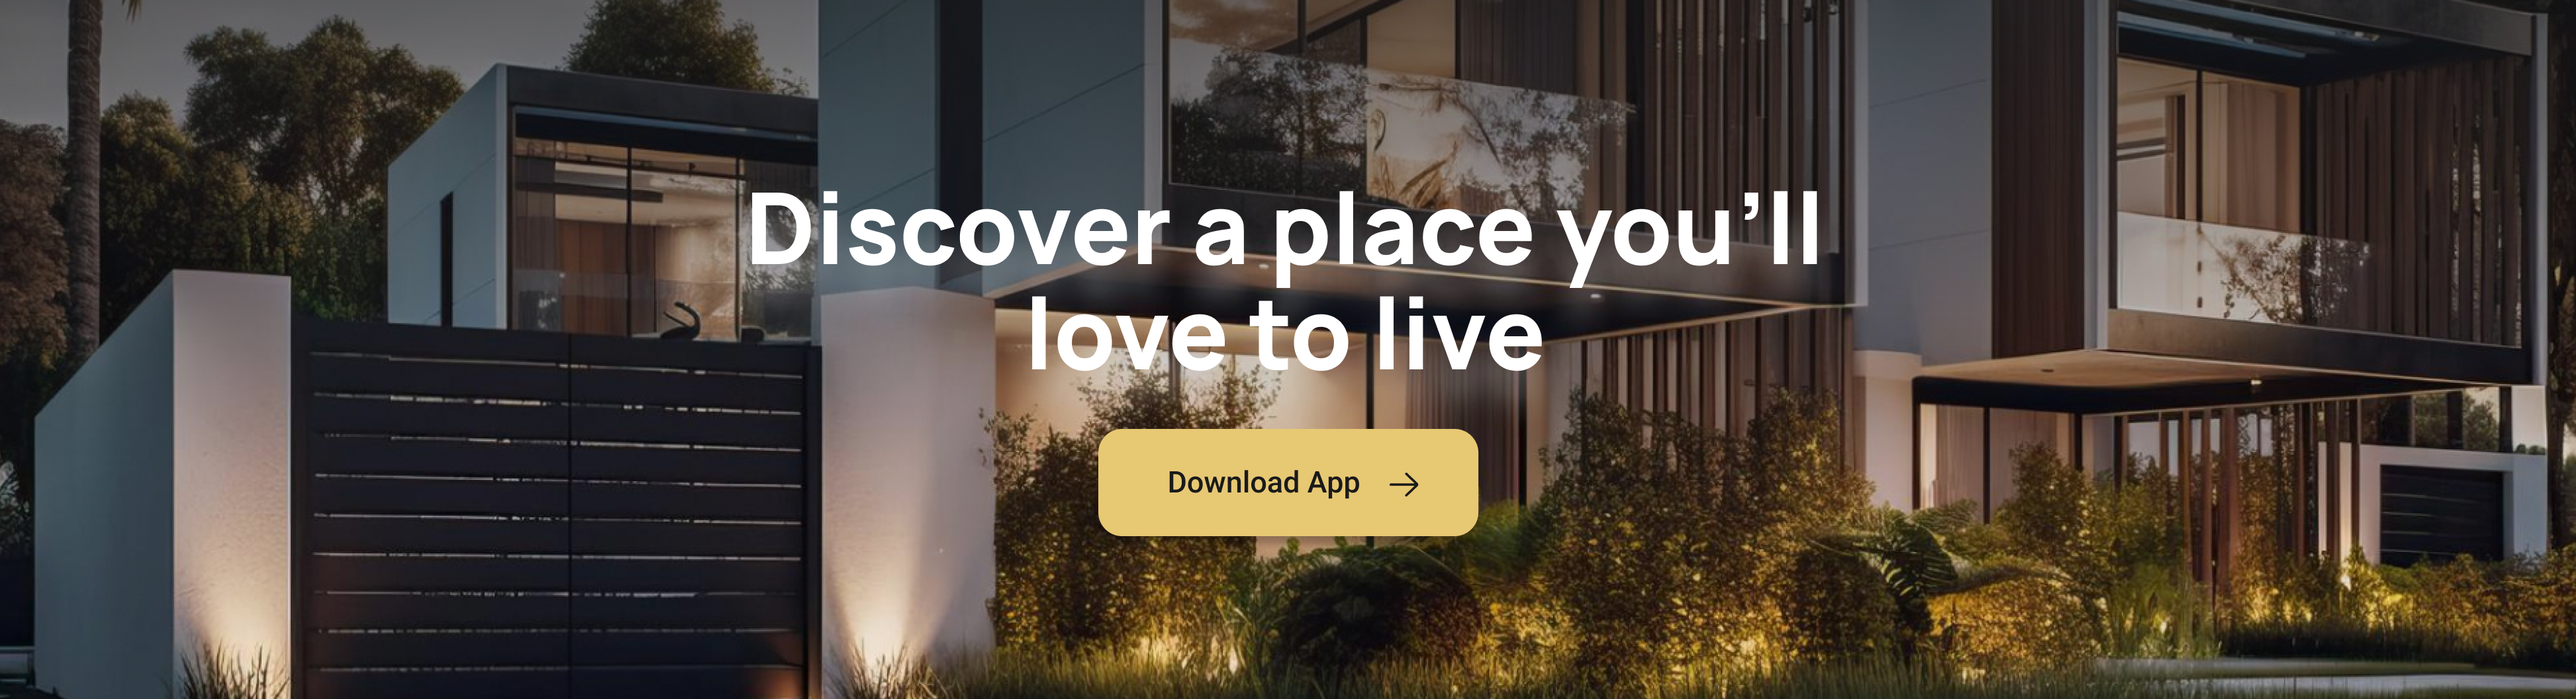
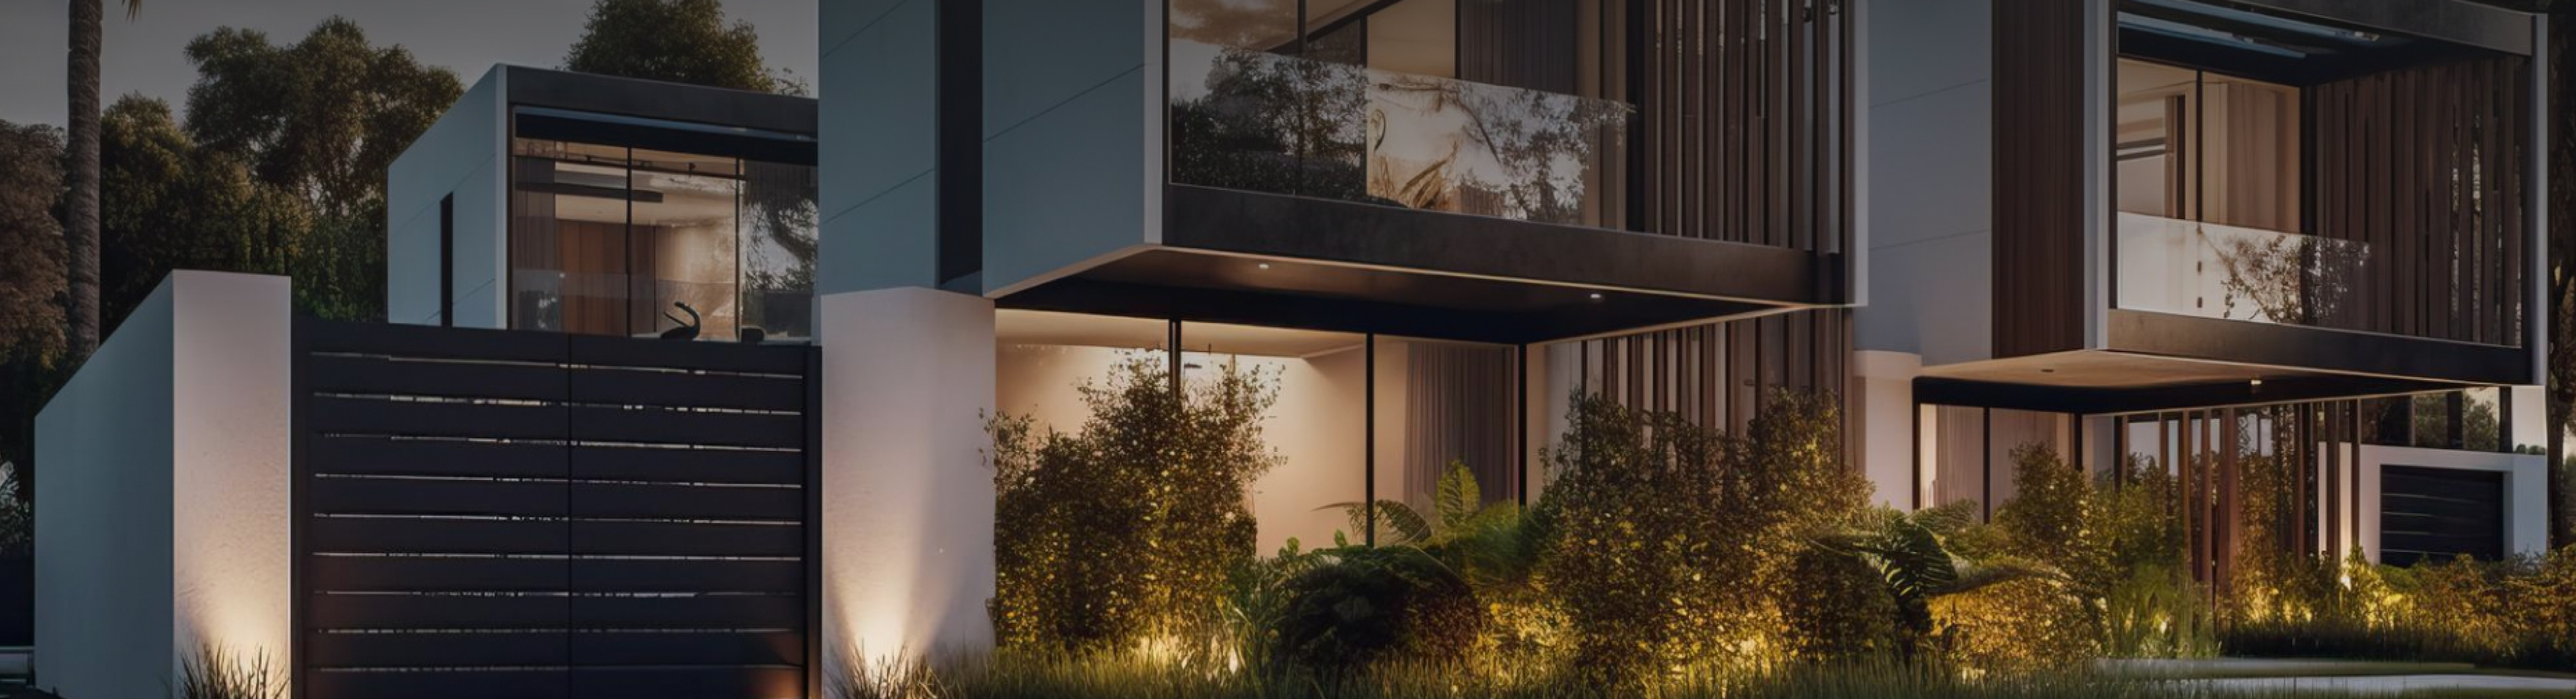
All section completed

Changed region(s): [[0.2799, 0.2812, 0.7152, 0.7812]]

diff --git a/src/main.jsx b/src/main.jsx
@@ -1,18 +1,35 @@
+
+
+
 import React from 'react'
 import ReactDOM from 'react-dom/client'
-import App from './App.jsx'
-import { BrowserRouter } from 'react-router-dom'
+import LandingPage from './LandingPage.jsx'
 import Contact from './Contact.jsx'
 import AboutUs from './views/AboutUs/AboutUs.jsx'
-// import LandingPage from './LandingPage.jsx'
+import { Link } from "react-router-dom";
 
-ReactDOM.createRoot(document.getElementById('root')).render(
-  <React.StrictMode>
-  <BrowserRouter>
-    <App />
-    <Contact/>
-    <AboutUs/>
-    {/* <LandingPage/> */}
-  </BrowserRouter>
-  </React.StrictMode>,
+
+import {
+  createBrowserRouter,
+  RouterProvider,
+} from "react-router-dom";
+
+const router = createBrowserRouter([
+  {
+    path: "/",
+    element: <LandingPage/>,
+  },
+  {
+    path: "/contact",
+    element: <Contact/>,
+  },
+  {
+    path: "/about",
+    element: <AboutUs/>,
+  },
+]);
+
+const root = ReactDOM.createRoot(document.getElementById('root')).render(
+
+  <RouterProvider router={router}/>
 )

diff --git a/src/components/Last-section/LastSection.jsx b/src/components/Last-section/LastSection.jsx
@@ -1,0 +1,25 @@
+import React from 'react'
+import './LastSection.css'
+import Button from '../../shared/button/Button'
+import LastImg from '../../assets/groupedPhone.png'
+
+const LastSection = () => {
+  return (
+    <div>
+        <div className='last_container'>
+            <section className='last_title'>
+                <h1>Download our App</h1>
+                <p>With intuitive search features and a curated selection of properties tailored to your preferences, finding your dream home has never been easier. Join thousands of satisfied users who have unlocked the key to their ideal living space with just a tap.</p>
+            </section>
+            <div className='last_button'>
+                <Button btnName='Download App'/>
+            </div>
+            <div className='last_img'>
+                <img src={LastImg} alt="" />
+            </div>
+        </div>
+    </div>
+  )
+}
+
+export default LastSection

diff --git a/src/views/AboutUs/AboutUs.jsx b/src/views/AboutUs/AboutUs.jsx
@@ -1,12 +1,12 @@
 import React from 'react'
-// import AboutUsBody from '../../components/AbouUs page/AboutUsBody'
 import Header from '../../shared/Header/Header'
 import circleImage from '../../assets/propertyCircles_img.png'
 import whoWeAreImage from '../../assets/whoWeAre_img.png'
 import Property from '../../components/haveAproperty-section/Property'
 import theManImg from '../../assets/the_man_img.png'
-// import FeaturedProp from '../../components/FeaturedProperties/FeaturedProp'
 import OurTeam from '../../components/AbouUs page/OurTeam'
+import LastSection from '../../components/Last-section/LastSection'
+import Footer from '../../shared/Footer/Footer'
 
 
 const AboutUs = () => {
@@ -44,10 +44,9 @@ const AboutUs = () => {
       />
 
         {/* meet our team */}
-
         <OurTeam/>
-        {/* <FeaturedProp/> */}
-    {/* <AboutUsBody/> */}
+        <LastSection/>
+        <Footer/>
     </>
   )
 }

diff --git a/src/components/Last-section/LastSection.css b/src/components/Last-section/LastSection.css
@@ -1,0 +1,36 @@
+
+.last_title h1{
+    color: #1F4B43;
+    text-align: center;
+    font-size: 51px;
+}
+
+.last_title p{
+    text-align: center;
+    font-size: 16px;
+    margin: 20px 450px;
+}
+
+.last_button{
+    text-align: center;
+}
+
+.last_button Button{
+    margin-top: 50px;
+    background-color:#DBA94D ;
+    border-color:#DBA94D ;
+    width: 13rem;
+    height: 4rem;
+    font-size: 14px;
+    margin-bottom: 60px;
+}
+
+.last_img{
+    text-align: center;
+    margin-bottom: -54px;
+}
+
+.last_img img{
+    width: 920px;
+    text-align: center;
+}

diff --git a/src/components/FeaturedProperties/FeaturedProp.jsx b/src/components/FeaturedProperties/FeaturedProp.jsx
@@ -5,7 +5,7 @@ import image2 from '../../assets/featuredProp-img2.png'
 import image3 from '../../assets/featuredProp-img3.png'
 import FeaturedCard from '../../components/Featured card/FeaturedCard'
 
-const FeaturedProp = ({image1, image2, image3, }) => {
+const FeaturedProp = () => {
   return (
     <main className='card_container'>
         <div className='inner_container'>

diff --git a/src/LandingPage.jsx b/src/LandingPage.jsx
@@ -19,7 +19,7 @@ import downloadAppImage from './assets/download_img.png'
 import circleImage from './assets/propertyCircles_img.png'
 import Footer from './shared/Footer/Footer'
 
-function App() {
+function LandingPage() {
   const [count, setCount] = useState(0)
 
   return (
@@ -103,4 +103,4 @@ function App() {
   )
 }
 
-export default App
+export default LandingPage

diff --git a/src/shared/Footer/FooterStyle.css b/src/shared/Footer/FooterStyle.css
@@ -91,7 +91,6 @@
     }
 
     .services p{
-        /* border: blue solid; */
         text-align: left;
     }
     
@@ -111,7 +110,7 @@
     .copyright{
         display: flex;
         justify-content: space-between;
-        font-size: 8px;
+        font-size: 6px;
         margin-top: 5px;
     }
     .copyright a{

diff --git a/src/components/yourDreamHome/dreamHomeStyles.css b/src/components/yourDreamHome/dreamHomeStyles.css
@@ -54,11 +54,8 @@ span{
     
     .dream_container{
         display: flex;
-        /* justify-content: center; */
-        /* align-items: center; */
-        /* justify-content: space-around; */
         position: absolute;
-        top: 90rem;
+        top: 80rem;
         gap: 10px;
         
     }
